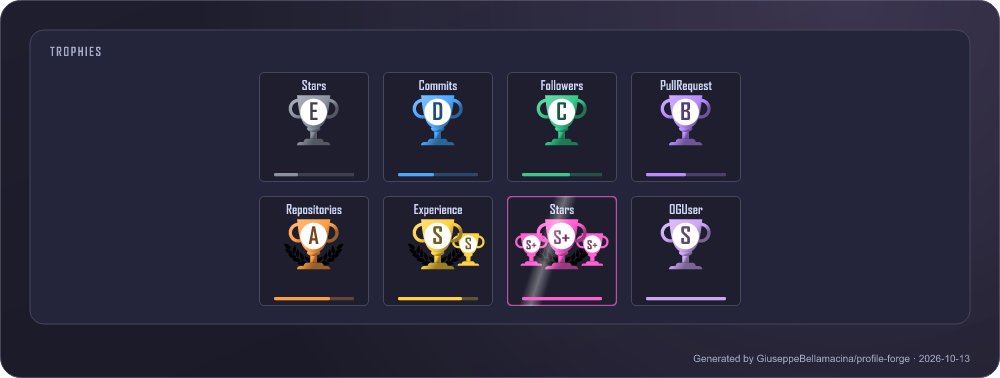
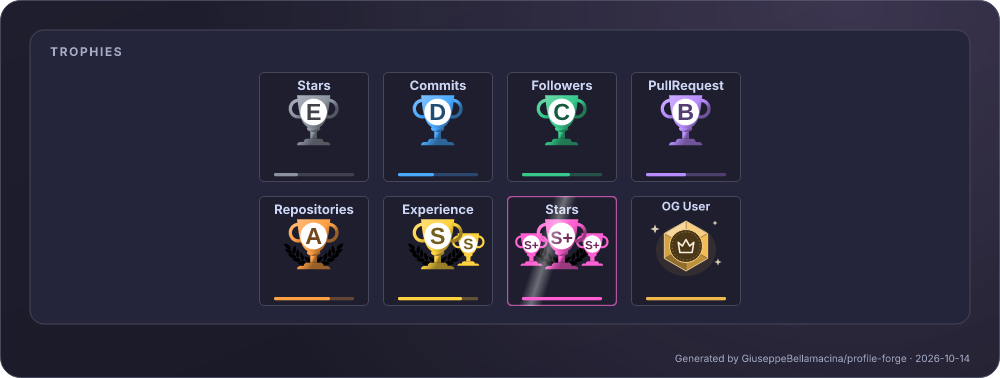
docs: trophy guide (TROPHIES.md) with every trophy, new secret trophy pictures

diff --git a/scripts/gen-trophy-guide.js b/scripts/gen-trophy-guide.js
@@ -11,7 +11,7 @@ const root = join(dirname(fileURLToPath(import.meta.url)), "..");
 const cap = (s) => s[0].toUpperCase() + s.slice(1);
 const UNITS = { stars: "stars", commits: "commits", followers: "followers", prs: "pull requests", repos: "repositories", issues: "issues", reviews: "reviews", experience: "years on GitHub" };
 // Experience is counted in days / 100 in the table; the card shows years
-const need = (t, min) => (t.key === "experience" ? `${Math.round((min * 100) / 365.25)}+ years` : `${min}+ ${UNITS[t.key]}`);
+const need = (t, min) => (t.key === "experience" ? `~${Math.round((min * 100) / 365.25)} years` : `${min}+ ${UNITS[t.key]}`);
 
 let md = `# Trophy guide
 

diff --git a/TROPHIES.md b/TROPHIES.md
@@ -1,0 +1,245 @@
+# Trophy guide
+
+<!-- generated by scripts/gen-trophy-guide.js, do not edit by hand -->
+
+Every trophy the card can show. There are two kinds:
+
+- **Level trophies** are the classic cup, in the colour of the level you reached. They are always there (the `?` cup means you have not reached the first level yet).
+- **Secret trophies** are cut gems with their own glyph. They appear **only once earned** and never show a level. Hover one in a browser to read how it was earned.
+
+Both live in the same panel and follow the same options (see [Trophies](GUIDE.md#trophies) in the guide).
+
+## Level trophies
+
+<img src="docs/guide/trophies-levels.png">
+
+One cup per level, from **E** (first steps) to **S+** (the top 1%): **A** adds the laurel, **S** a second cup, **S+** three cups with a pulsing frame and a light that sweeps across. The level colours are the same as the header rank (`levelE` … `levelTop` in `colors`).
+
+### Stars
+
+| Level | Needs | Name |
+|---|---|---|
+| S+ | 2000+ stars | Super Stargazer |
+| S | 700+ stars | High Stargazer |
+| A | 200+ stars | Stargazer |
+| B | 100+ stars | Super Star |
+| C | 30+ stars | You are a Star |
+| D | 10+ stars | Middle Star |
+| E | 1+ stars | First Star |
+
+### Commits
+
+| Level | Needs | Name |
+|---|---|---|
+| S+ | 4000+ commits | God Committer |
+| S | 2000+ commits | Deep Committer |
+| A | 1000+ commits | Super Committer |
+| B | 500+ commits | Ultra Committer |
+| C | 100+ commits | High Committer |
+| D | 10+ commits | Middle Committer |
+| E | 1+ commits | First Commit |
+
+### Followers
+
+| Level | Needs | Name |
+|---|---|---|
+| S+ | 1000+ followers | Super Celebrity |
+| S | 400+ followers | Ultra Celebrity |
+| A | 200+ followers | Hyper Celebrity |
+| B | 100+ followers | Famous User |
+| C | 20+ followers | Dynamic User |
+| D | 10+ followers | Many Friends |
+| E | 1+ followers | First Friend |
+
+### PullRequest
+
+| Level | Needs | Name |
+|---|---|---|
+| S+ | 1000+ pull requests | God Puller |
+| S | 500+ pull requests | Deep Puller |
+| A | 200+ pull requests | Super Puller |
+| B | 100+ pull requests | Ultra Puller |
+| C | 20+ pull requests | High Puller |
+| D | 10+ pull requests | Middle Puller |
+| E | 1+ pull requests | First Pull |
+
+### Repositories
+
+| Level | Needs | Name |
+|---|---|---|
+| S+ | 50+ repositories | God Repo Creator |
+| S | 45+ repositories | Deep Repo Creator |
+| A | 40+ repositories | Super Repo Creator |
+| B | 35+ repositories | Ultra Repo Creator |
+| C | 20+ repositories | High Repo Creator |
+| D | 10+ repositories | Middle Repo Creator |
+| E | 1+ repositories | First Repository |
+
+### Issues (opt-in)
+
+Not shown by default: add `"Issues"` to `trophies.extra`.
+
+| Level | Needs | Name |
+|---|---|---|
+| S+ | 1000+ issues | God Issuer |
+| S | 500+ issues | Deep Issuer |
+| A | 200+ issues | Super Issuer |
+| B | 100+ issues | Ultra Issuer |
+| C | 20+ issues | High Issuer |
+| D | 10+ issues | Middle Issuer |
+| E | 1+ issues | First Issue |
+
+### Reviews (opt-in)
+
+Not shown by default: add `"Reviews"` to `trophies.extra`.
+
+| Level | Needs | Name |
+|---|---|---|
+| S+ | 70+ reviews | God Reviewer |
+| S | 57+ reviews | Deep Reviewer |
+| A | 45+ reviews | Super Reviewer |
+| B | 30+ reviews | Ultra Reviewer |
+| C | 8+ reviews | High Reviewer |
+| D | 3+ reviews | Middle Reviewer |
+| E | 1+ reviews | First Review |
+
+### Experience
+
+| Level | Needs | Name |
+|---|---|---|
+| S+ | ~19 years | Seasoned Veteran |
+| S | ~15 years | Grandmaster |
+| A | ~11 years | Master Dev |
+| B | ~8 years | Expert Dev |
+| C | ~3 years | Intermediate Dev |
+| D | ~2 years | Junior Dev |
+| E | ~1 years | Newbie |
+
+Filter them with `titles` / `hideTitles` (aliases such as `Star`, `Commit`, `PR`, `Repo`, `Review` and `Duration` work) or by level with `ranks` / `hideRanks`.
+
+## Secret trophies
+
+66 of them. They are only drawn when earned; `ranks: ["SECRET"]` shows just these and `hideRanks: ["SECRET"]` hides them all. Each has a **Title** you can pass to `titles` / `hideTitles`.
+
+<img src="docs/guide/trophies-secret-all.png">
+
+### The first ones
+
+<img src="docs/guide/trophies-secret-1.png">
+
+| Title | Shown as | Earned by |
+|---|---|---|
+| `MultiLanguage` | Rainbow Coder | 10 or more languages |
+| `LongTimeUser` | Village Elder | 10 years on GitHub |
+| `Organizations` | Jack of Trades | Member of 3 organizations |
+| `AncientUser` | Ancient User | Joined in 2010 or before |
+| `OGUser` | OG User | Joined in 2008 or before |
+| `AllSuperRank` | S Rank Hacker | S or better in every base trophy |
+
+### Calendar and streaks
+
+<img src="docs/guide/trophies-secret-2.png">
+
+| Title | Shown as | Earned by |
+|---|---|---|
+| `HundredDays` | 100 Days | A streak of 100 days |
+| `FullOrbit` | Full Orbit | A streak of a whole year |
+| `PerfectWeek` | Perfect Week | All seven days of a week |
+| `PerfectMonth` | Perfect Month | Every day of a calendar month |
+| `TwelveMonths` | All Seasons | A contribution in each month of a year |
+| `IronHabit` | Iron Habit | Active on 80% of the last 365 days |
+| `ThousandDays` | Thousand Club | 1000 days with contributions |
+| `Marathon` | Marathon Day | 100 contributions in one day |
+| `Phoenix` | Phoenix | Came back after 90+ quiet days |
+| `Elite` | Elite | 1337 contributions |
+| `OverNineThousand` | Over 9000! | More than 9000 contributions |
+| `WeekendWarrior` | Weekend Warrior | 35% of contributions on weekends |
+| `OfficeHours` | Office Hours | Almost nothing on weekends |
+| `FridayDeployer` | Friday Deployer | Friday is your busiest day |
+| `Hacktoberfest` | Hacktoberfest Hero | 10 active days in one October |
+
+### Days of the year
+
+<img src="docs/guide/trophies-secret-3.png">
+
+These look at the whole contribution calendar, any year. **Happy Birthday!** is the exception: it shows on your birthday, which you set in the config with `trophies.birthday` (`"MM-DD"` or `"YYYY-MM-DD"`, in the card's `timezone`). Without it the trophy never appears.
+
+| Title | Shown as | Earned by |
+|---|---|---|
+| `SantasHelper` | Santa's Helper | Contributed on December 25 |
+| `Resolution` | Resolution Keeper | Contributed on January 1 |
+| `TrickOrCommit` | Trick or Commit | Contributed on October 31 |
+| `CodeLover` | Code Lover | Contributed on February 14 |
+| `LeapDay` | Leap of Faith | Contributed on February 29 |
+| `Friday13` | Unlucky Coder | Contributed on a Friday the 13th |
+| `PiDay` | Pi Day | Contributed on March 14 |
+| `MayTheFourth` | May the Fourth | Contributed on May 4 |
+| `Day256` | Programmer's Day | Contributed on the 256th day of a year |
+| `Birthday` | Happy Birthday! | Today is your birthday (set trophies.birthday in the config) |
+
+### Repositories
+
+<img src="docs/guide/trophies-secret-4.png">
+
+| Title | Shown as | Earned by |
+|---|---|---|
+| `Forkaholic` | Forkaholic | Half of your repositories are forks |
+| `OriginalMind` | Original Mind | 10 repositories, none of them a fork |
+| `RepoHoarder` | Repo Hoarder | 100 repositories |
+| `HitSingle` | Hit Single | A repository with 100 stars |
+| `ChartTopper` | Chart Topper | A repository with 1000 stars |
+| `Forkable` | Forkable | Your repositories were forked 50 times |
+| `GraveKeeper` | Grave Keeper | 3 archived repositories |
+| `LicensedToShip` | Licensed to Ship | 5 licensed repositories, 80% of the active ones |
+| `Dotfiles` | Dotfile Devotee | A dotfiles repository |
+| `ProfileCrafter` | Profile Crafter | A repository named like you |
+| `HelloWorld` | Hello, World! | A hello-world repository of your own |
+
+### Languages
+
+<img src="docs/guide/trophies-secret-5.png">
+
+| Title | Shown as | Earned by |
+|---|---|---|
+| `Rustacean` | Rustacean | Rust is your top language |
+| `Pythonista` | Pythonista | Python is your top language |
+| `Gopher` | Gopher | Go is your top language |
+| `OneTrueLang` | One True Language | 90% of your code is in one language |
+| `OldGuard` | Old Guard | Code in COBOL, Fortran, Assembly, Perl... |
+| `Lambda` | Functional Fan | Code in Haskell, OCaml, Elixir... |
+| `Esolang` | Esolang Explorer | Code in Brainfuck and friends |
+
+### People and platform
+
+<img src="docs/guide/trophies-secret-6.png">
+
+The badges (GitHub Star, Campus Expert, Bounty Hunter, Dev Program, Hubber), sponsors, gists, following and starred counts come from your public profile. Sharpshooter and Answer Machine use the merged-PR and discussion counts, which are fetched only when the card shows one of those stats.
+
+| Title | Shown as | Earned by |
+|---|---|---|
+| `LoneWolf` | Lone Wolf | 100 followers, following almost nobody |
+| `SocialButterfly` | Social Butterfly | Following 200 people |
+| `Bookmarker` | Bookmark Hoarder | 500 starred repositories |
+| `Snippets` | Snippet Collector | 10 gists |
+| `Patron` | Open Source Patron | You sponsor someone |
+| `Backed` | Backed | Someone sponsors you |
+| `OpenSourceNomad` | Open Source Nomad | Contributed to 50 repositories |
+| `Gatekeeper` | Gatekeeper | 100 pull request reviews |
+| `Sharpshooter` | Sharpshooter | 20+ pull requests, 90% merged |
+| `AnswerMachine` | Answer Machine | 5 accepted discussion answers |
+| `TenKCommits` | Commit Machine | 10000 commits |
+| `GitHubStar` | GitHub Star | A GitHub Star |
+| `CampusExpert` | Campus Expert | A GitHub Campus Expert |
+| `BountyHunter` | Bounty Hunter | A GitHub bug bounty hunter |
+| `DevProgram` | Dev Program | Member of the GitHub Developer Program |
+| `Hubber` | Hubber | Works at GitHub |
+
+### Special
+
+<img src="docs/guide/trophies-secret-7.png">
+
+A special trophy has a pulsing frame and a `FRIEND` tag instead of `SECRET`. **Forge Friend** is for friends of the author of profile-forge: you and [GiuseppeBellamacina](https://github.com/GiuseppeBellamacina) follow each other on GitHub (checked on github.com only).
+
+| Title | Shown as | Earned by |
+|---|---|---|
+| `Friend` | Forge Friend | You and the author of profile-forge follow each other |

diff --git a/README.md b/README.md
@@ -66,7 +66,7 @@ profile-forge works differently:
 | Stats | Stars, all-time commits, PRs, issues, code reviews, repos contributed to, followers, repositories |
 | Streak | Total contributions, current streak and longest streak with date ranges (a day with zero contributions *today* does not break the streak) |
 | Top languages | Animated stacked bar and legend, with configurable `size_weight` / `count_weight` ranking |
-| Trophies | The classic cup in the colour of its level (laurel from A, two cups at S, three and a shimmer at S+), plus secret trophies |
+| Trophies | The classic cup in the colour of its level (laurel from A, two cups at S, three and a shimmer at S+), plus 66 secret trophies (gems with their own glyph) earned from your calendar, repos, languages and profile |
 | Heatmap | The last 53 weeks of contributions, as squares, circles, triangles, snowflakes or moons, or as an animated snake that eats them |
 | Avatar | A frame around it, like Discord avatar decorations (13 styles, most of them animated, or one that follows your level) |
 
@@ -231,7 +231,7 @@ Names follow the three projects the card is built on. A `—` means the original
 | stats | `hide`, `show`, `icons`, `numberFormat`, `numberPrecision`, `textBold`, `lineHeight`, `title`, `commitsYear`, `excludeRepos` | `hide`, `show`, `show_icons`, `number_format`, `number_precision`, `text_bold`, `line_height`, `custom_title`, `commits_year`, `exclude_repo` | `show` adds `prsMerged`, `prsMergedPercentage`, `discussionsStarted`, `discussionsAnswered` (extra GraphQL calls, only when requested) |
 | streak | `hide`, `mode`, `excludeDays`, `startingYear`, `dateFormat`, `shortNumbers`, `excludeDaysLabel`, `title` | `hide_*_streak`, `mode`, `exclude_days`, `starting_year`, `date_format`, `short_numbers` | `weekly` counts Sunday–Saturday weeks; excluded days neither extend nor break a streak; `[...]` in `dateFormat` is hidden for the current year |
 | languages | `layout`, `count`, `hide`, `excludeRepos`, `hideProgress`, `statsFormat`, `sizeWeight`, `countWeight`, `title` | `layout`, `langs_count`, `hide`, `exclude_repo`, `hide_progress`, `stats_format`, `size_weight`, `count_weight` | `bar` `compact` `donut` `donut-vertical` `pie`; `bytes` shows sizes instead of percentages; score = `bytes^sizeWeight × repos^countWeight` |
-| trophies | `titles`, `hideTitles`, `ranks`, `hideRanks`, `columns`, `rows`, `marginW`, `marginH`, `padding`, `align`, `parts`, `noBg`, `noFrame`, `extra`, `title` | `title`, `rank`, `column`, `row`, `margin-w`, `margin-h`, `no-bg`, `no-frame` | titles accept the originals' aliases (`Star`, `Commit`, `PR`, `Repo`, `Review`, `Duration`, `Orgs`…); `-C` drops a rank, `SECRET` selects secret trophies; `extra` adds the `Issues` and `Reviews` trophies |
+| trophies | `titles`, `hideTitles`, `ranks`, `hideRanks`, `columns`, `rows`, `marginW`, `marginH`, `padding`, `align`, `parts`, `noBg`, `noFrame`, `extra`, `title` | `title`, `rank`, `column`, `row`, `margin-w`, `margin-h`, `no-bg`, `no-frame` | titles accept the originals' aliases (`Star`, `Commit`, `PR`, `Repo`, `Review`, `Duration`, `Orgs`…); `-C` drops a rank, `SECRET` selects secret trophies; `extra` adds the `Issues` and `Reviews` trophies; `birthday` (`MM-DD`) sets the day of the Happy Birthday trophy |
 | heatmap | `mode`, `snakePath`, `weeks`, `cell`, `weekStart`, `legend`, `monthLabels` | — | `grid` or `snake` (routes `smart` `busy` `nearest` `sweep` `rows` `spiral`); cells `square` `round` `triangle` `snowflake` `moon` `mixed`; grid size, Monday start, legend and month labels |
 | root | `locale`, `timezone`, `customThemes`, `layout`, `colorsByTheme` | `locale`, `timezone`, `theme` | `locale` translates labels, months and weekdays |
 
@@ -316,7 +316,7 @@ Flags override `config.json`. Any config key can be set with `--set path=value` 
 ## How the numbers are computed
 
 - **Rank:** `1 − Σwᵢ·cdf(xᵢ/medianᵢ) / Σwᵢ`, using exponential CDFs for commits (median 1000, w=2), PRs (50, w=3), issues (25, w=1) and reviews (2, w=1), and log-normal CDFs for stars (50, w=4) and followers (10, w=1). The percentile is mapped to S+ / S / A / B / C / D / E at 1 / 10 / 25 / 50 / 70 / 85 / 100.
-- **Trophies:** Stars, Commits, Followers, PullRequest, Repositories and Experience, each with seven levels (S+ → E), drawn as the classic cup with its laurel in the colour of the level: A has the laurel, S two cups, the top 1% (S+) three cups. Secret trophies appear only once earned: MultiLanguage (10+ languages), LongTimeUser (10+ years), Organizations (3+ orgs), Joined2020, AncientUser, OGUser and AllSuperRank (see the [guide](GUIDE.md) for the exact rules).
+- **Trophies:** Stars, Commits, Followers, PullRequest, Repositories and Experience, each with seven levels (S+ → E), drawn as the classic cup with its laurel in the colour of the level: A has the laurel, S two cups, the top 1% (S+) three cups. Secret trophies appear only once earned, drawn as cut gems instead of cups: 66 of them, from calendar curiosities (100 Days, Full Orbit, Perfect Week, Santa's Helper, Friday 13th, Pi Day...) to repository, language and community ones (Hit Single, Dotfile Devotee, Rustacean, Esolang Explorer, Backed, Hubber...). See the [trophy guide](TROPHIES.md) for every trophy and the exact rules.
 - **Streak:** computed from your daily contribution calendar across every year since you joined, in the configured time zone.
 
 ## Development

diff --git a/GUIDE.md b/GUIDE.md
@@ -423,13 +423,27 @@ A day with zero contributions *today* does not break the current streak.
 | `parts` | `title` `label` `score` `bar` | all | What each trophy shows besides the cup |
 | `noBg`, `noFrame` | boolean | `false` | Remove the trophy background / frame |
 | `extra` | `Issues` `Reviews` | `[]` | Opt-in trophies |
+| `birthday` | `MM-DD` or `YYYY-MM-DD` | none | Your birthday: the Happy Birthday secret trophy shows that day |
 | `title` | string | translated | Custom panel title |
 
-Base trophies: Stars, Commits, Followers, PullRequest, Repositories, Experience. Secret trophies show up only once earned: MultiLanguage, LongTimeUser, Organizations, Joined2020, AncientUser, OGUser, AllSuperRank.
+Base trophies: Stars, Commits, Followers, PullRequest, Repositories, Experience.
+
+### Secret trophies
+
+There are 66 secret trophies, drawn as a cut gem with their own glyph instead of a cup (the colour is the family of the trophy, not a level). They appear only once earned. Select them with `ranks: ["SECRET"]`, hide them with `hideRanks: ["SECRET"]` or one by one with `hideTitles`.
+
+<img src="docs/guide/trophies-secret-all.png">
+
+Two of them are configurable or special:
+
+- **Happy Birthday!** shows on your birthday. Set the date with `trophies.birthday` (`"MM-DD"` or `"YYYY-MM-DD"`, read in the card's `timezone`); without it the trophy never appears.
+- **Forge Friend** is a special trophy (pulsing frame, `FRIEND` tag) for friends of the author: you and [GiuseppeBellamacina](https://github.com/GiuseppeBellamacina) follow each other on GitHub.
+
+The full list, with what earns each one, is in the **[trophy guide](TROPHIES.md)**.
 
 ### Levels
 
-Each trophy is the classic cup in the colour of its level, and the higher the level the richer it gets: **A** adds the laurel, **S** a second cup, and the top 1% (**S+**) three cups with a pulsing border and a light that sweeps across the card (animated, like the rank). The level letter is on the cup. The levels are the same as the header rank (see [Rank levels](#rank-levels)), and `levelE` … `levelTop` change their colours.
+Each trophy (except the secret ones) is the classic cup in the colour of its level, and the higher the level the richer it gets: **A** adds the laurel, **S** a second cup, and the top 1% (**S+**) three cups with a pulsing border and a light that sweeps across the card (animated, like the rank). The level letter is on the cup. The levels are the same as the header rank (see [Rank levels](#rank-levels)), and `levelE` … `levelTop` change their colours.
 
 <img src="docs/guide/trophies-levels.png">
 
